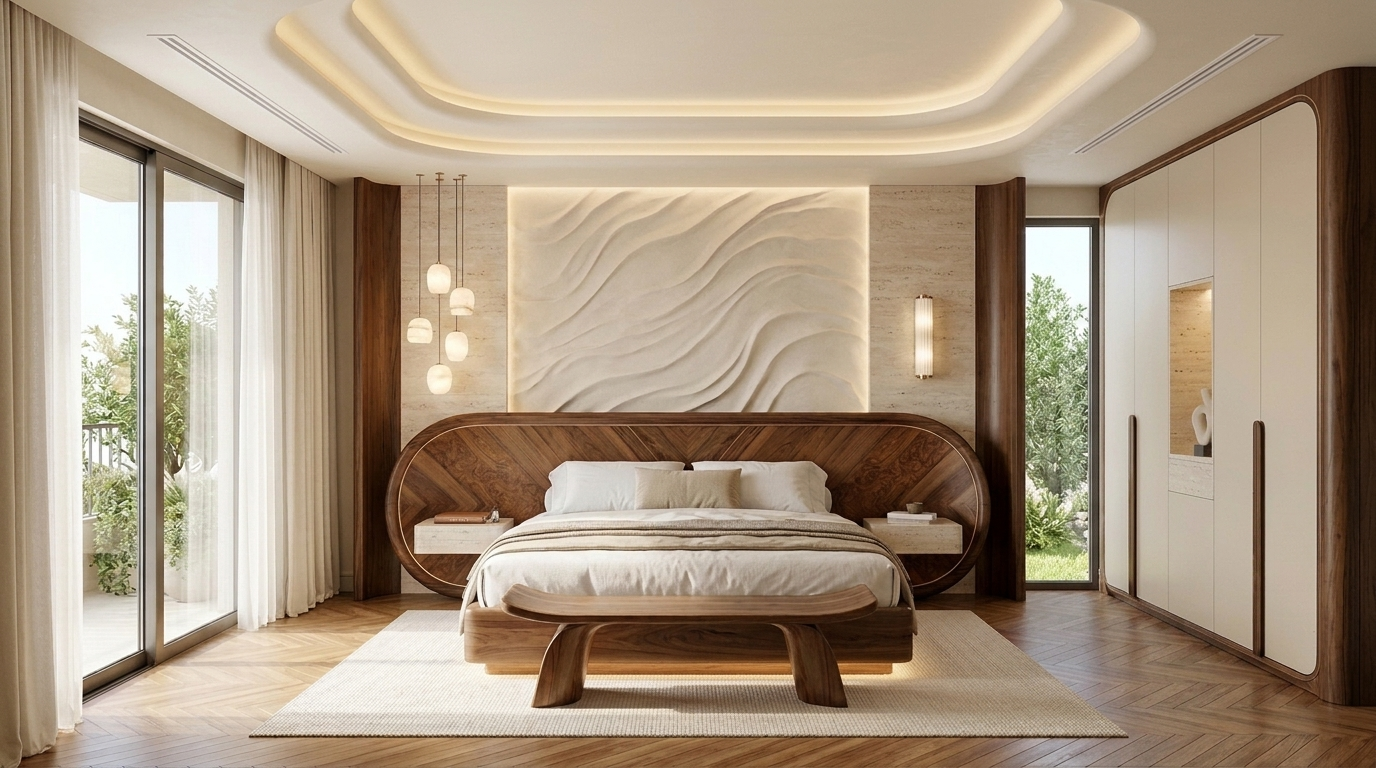
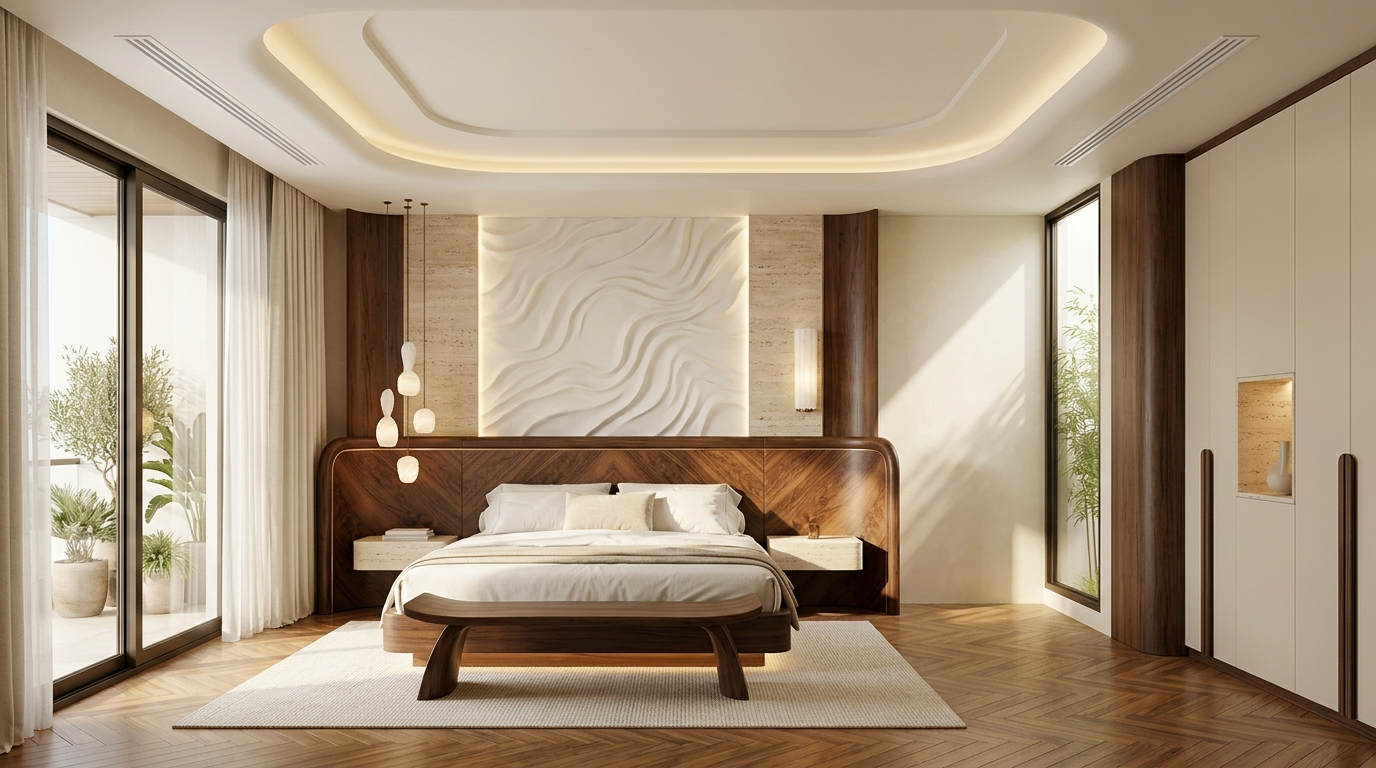
Fix Master T2-V02 750mm fixed window onto perpendicular East wall per KT-2.08

diff --git a/mau-modern-luxury-349.html b/mau-modern-luxury-349.html
@@ -439,15 +439,15 @@
         </article>
 
         <article class="shot-card wow">
-          <div class="shot-wrap" onclick="openLightbox('assets/wow_master_bed_allwood.jpg', '👑 T2-V02 Mới: Khu Ngủ Master 100% Vân Gỗ Đẹp Điêu Khắc & Đá Travertine (0% Bọc Da Ở Giường & Ghế Đuôi Giường) + Đúng ô kính 750mm vườn Đông & Tủ #3!')">
-            <img src="assets/wow_master_bed_allwood.jpg" alt="Khu Ngủ Master vách đầu giường cánh chim và giường 100% vân gỗ không bọc da" width="1376" height="768" fetchpriority="high" />
-            <span class="shot-badge">👑 MỚI — GIƯỜNG &amp; ĐẦU GIƯỜNG CÁNH CHIM 100% VÂN GỖ (0% DA)</span>
+          <div class="shot-wrap" onclick="openLightbox('assets/wow_master_bed_allwood.jpg?v=2', '👑 T2-V02 Đã Sửa Chuẩn 100% Ô Kính KT-2.08: Tường Bắc đầu giường xây đặc liền mạch tới kịch góc phải; Vách kính cố định O2 (750mm) nằm đúng trên Tường Đông bên phải (cùng mặt phẳng lưng Tủ #3 sâu 600mm)!')">
+            <img src="assets/wow_master_bed_allwood.jpg?v=2" alt="Khu Ngủ Master vách đầu giường cánh chim 100% vân gỗ và vách kính 750mm nằm đúng trên tường Đông bên phải" width="1376" height="768" fetchpriority="high" />
+            <span class="shot-badge">👑 ĐÃ SỬA CHUẨN Ô KÍNH TƯỜNG PHẢI — GIƯỜNG 100% VÂN GỖ (0% DA)</span>
           </div>
           <div class="shot-body">
-            <h3>T2-V02: Giường &amp; Đầu Giường Cánh Chim 100% Vân Gỗ Ghép Nghệ Thuật</h3>
+            <h3>T2-V02: Giường Cánh Chim 100% Vân Gỗ &amp; Chuẩn Hóa Ô Kính 750mm Tường Đông</h3>
             <ul>
               <li><strong>Khoe trọn mặt vân gỗ tuyệt đẹp:</strong> Thay toàn bộ lớp bọc da đầu giường và ghế đôn bằng <strong>vách gỗ vân Nu/Óc chó ghép đối xứng (<code>Karma Nuka + Karma Grain</code>) bo cong viền nổi <code>R80</code> điểm chỉ đồng mảnh</strong> + ghế băng gỗ nguyên khối đuôi giường!</li>
-              <li><strong>Chuẩn xác kiến trúc Q Villa:</strong> Trái là cửa lùa <code>Logia 01</code>, phải có đúng <strong>ô kính cố định <code>750mm</code> nhìn vườn cây hướng Đông</strong> nối liền <code>Tủ áo #3 (0% kính)</code>!</li>
+              <li><strong>Đã sửa chuẩn 100% vị trí ô cửa theo <code>KT-2.08</code>:</strong> Bức tường Bắc đầu giường xây đặc liền mạch đến kịch góc phải; <strong>vách kính cố định <code>O2 (750mm)</code> nằm vuông góc trên Tường Đông bên phải</strong> (cùng mặt phẳng lưng <code>Tủ áo #3 sâu 600mm</code>, hắt nắng xiên vào ngách)!</li>
             </ul>
           </div>
         </article>
